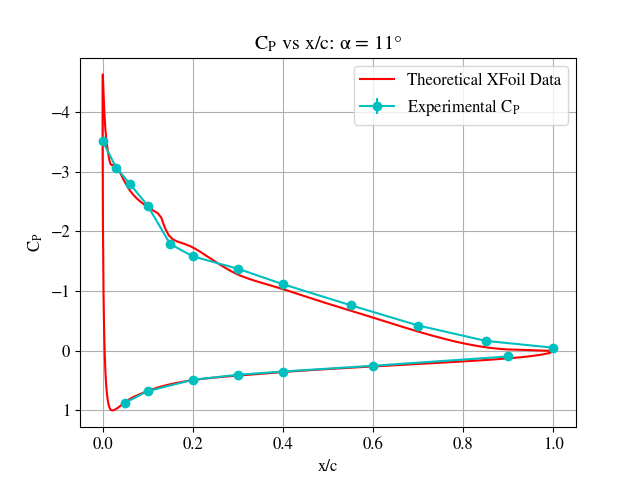
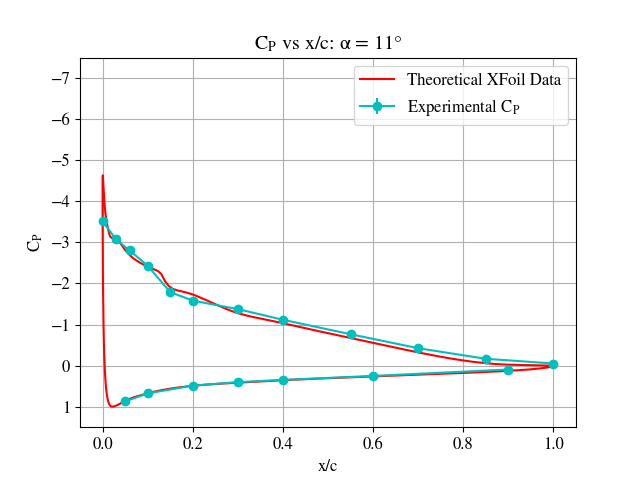
updated graphs

diff --git a/src/Graphing.py b/src/Graphing.py
@@ -57,8 +57,9 @@ def CpGraph(a: np.int32, Cp_top: np.array, Cp_bot: np.array, Cp_top_err: np.arra
     plt.xlabel('x/c')
     plt.ylabel('$C_{P}$')
     plt.legend(['Theoretical XFoil Data', 'Experimental $C_{P}$'])
-    plt.gca().invert_yaxis()
     plt.grid()
+    plt.ylim(-7.5, 1.5)
+    plt.gca().invert_yaxis()
     plt.savefig('results\C_p-graphs\C_p-a%d.png'%a)
     # plt.show()
     plt.clf()
